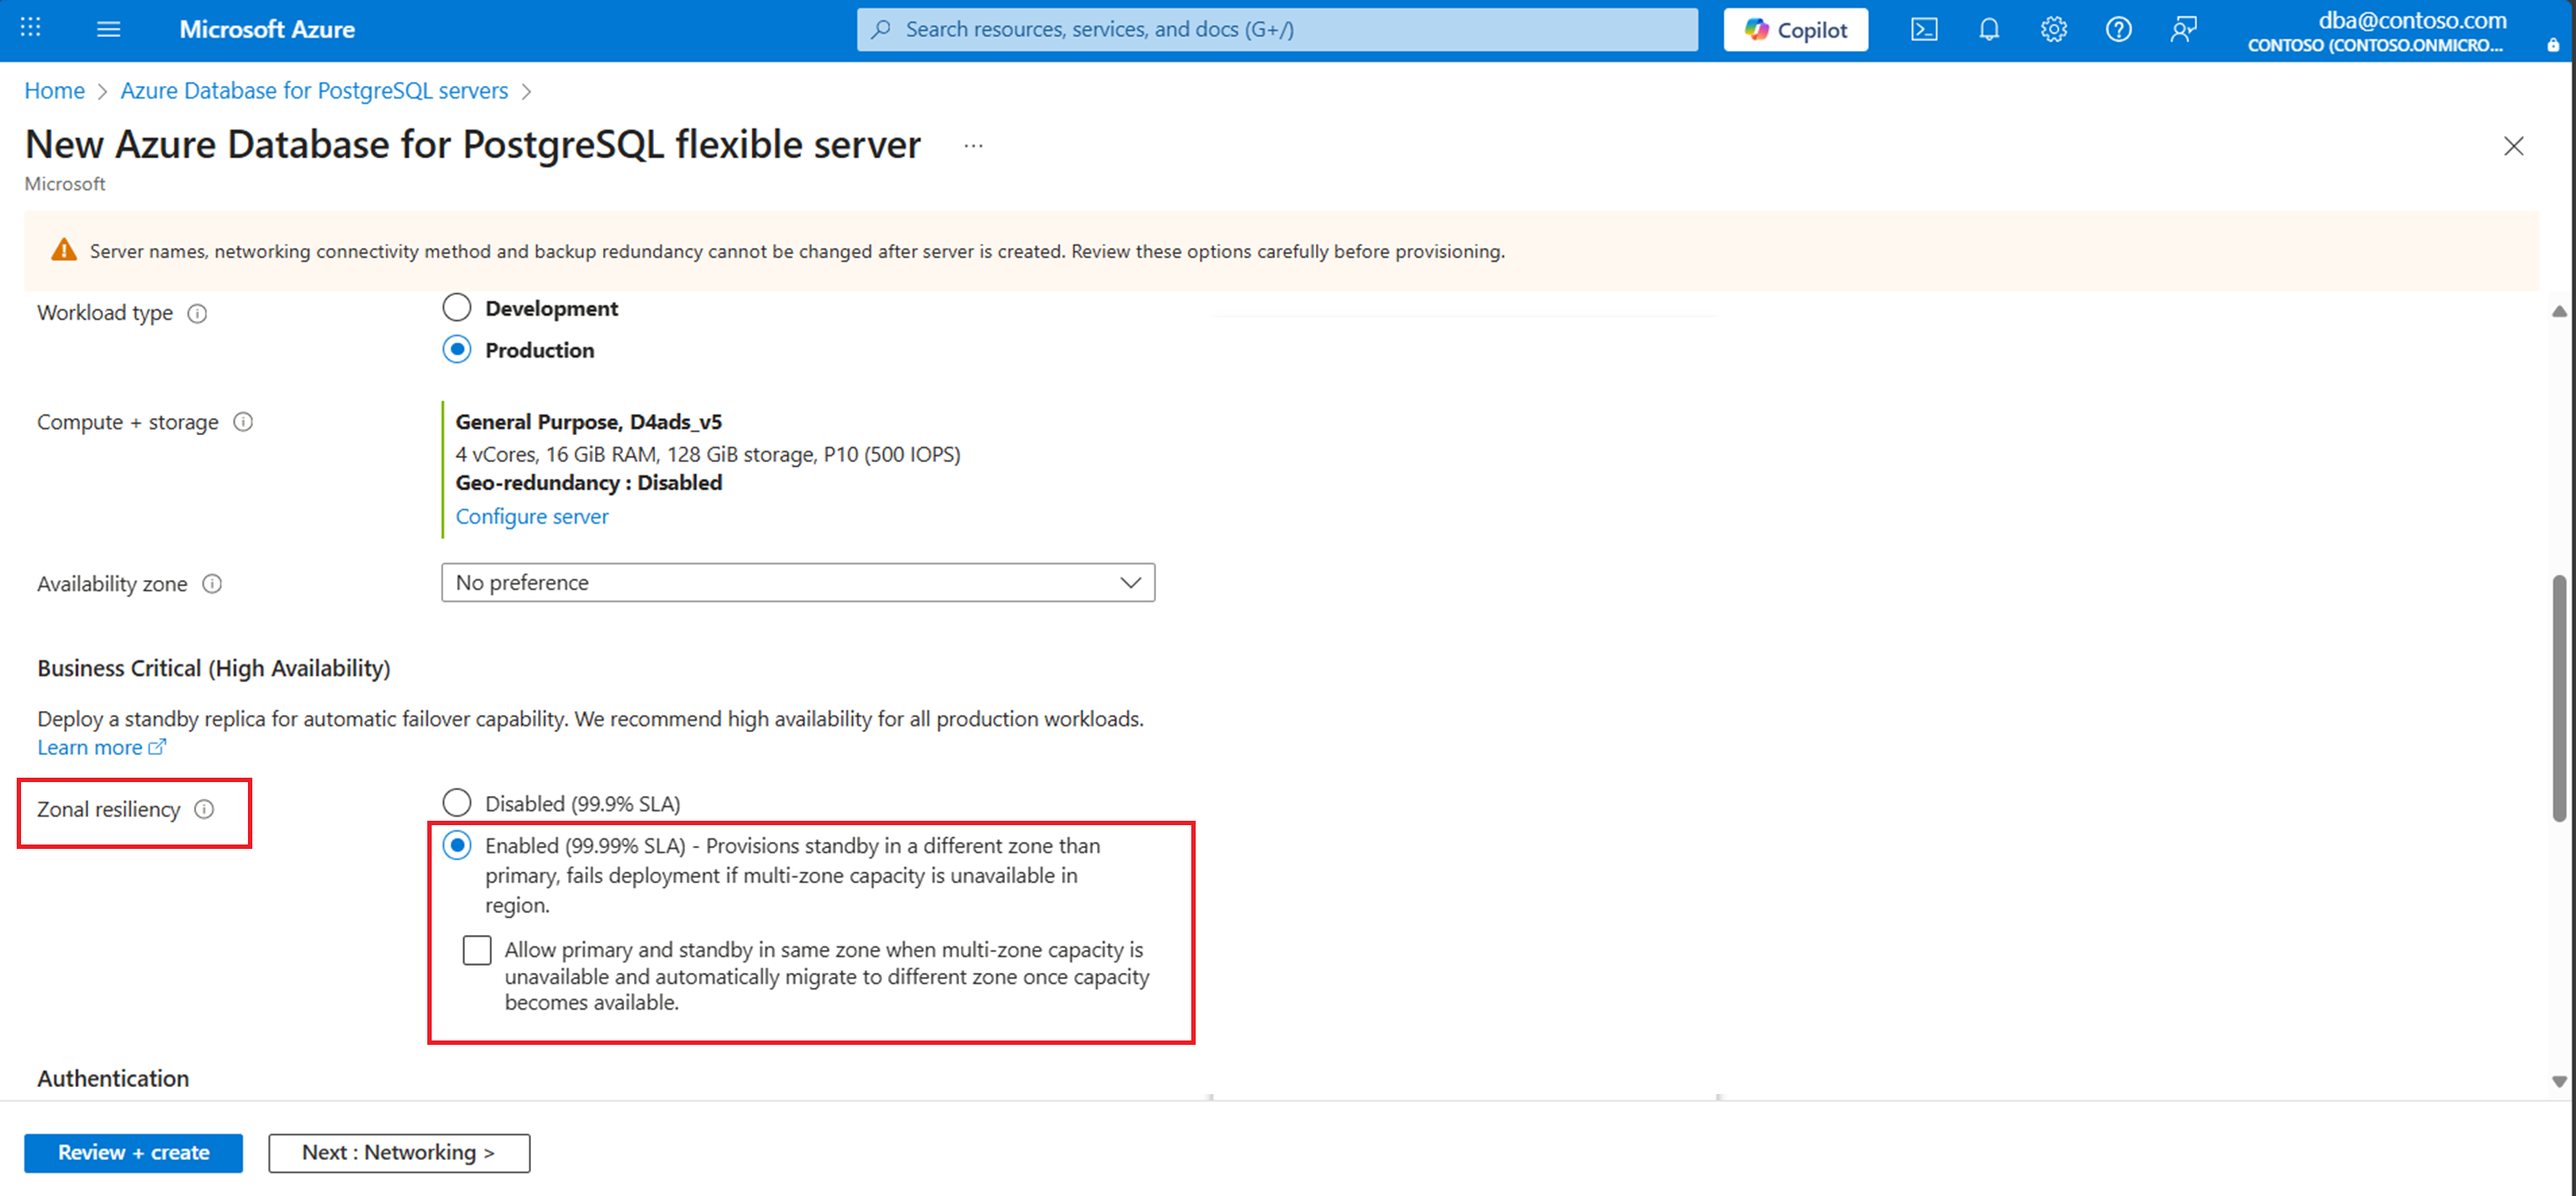
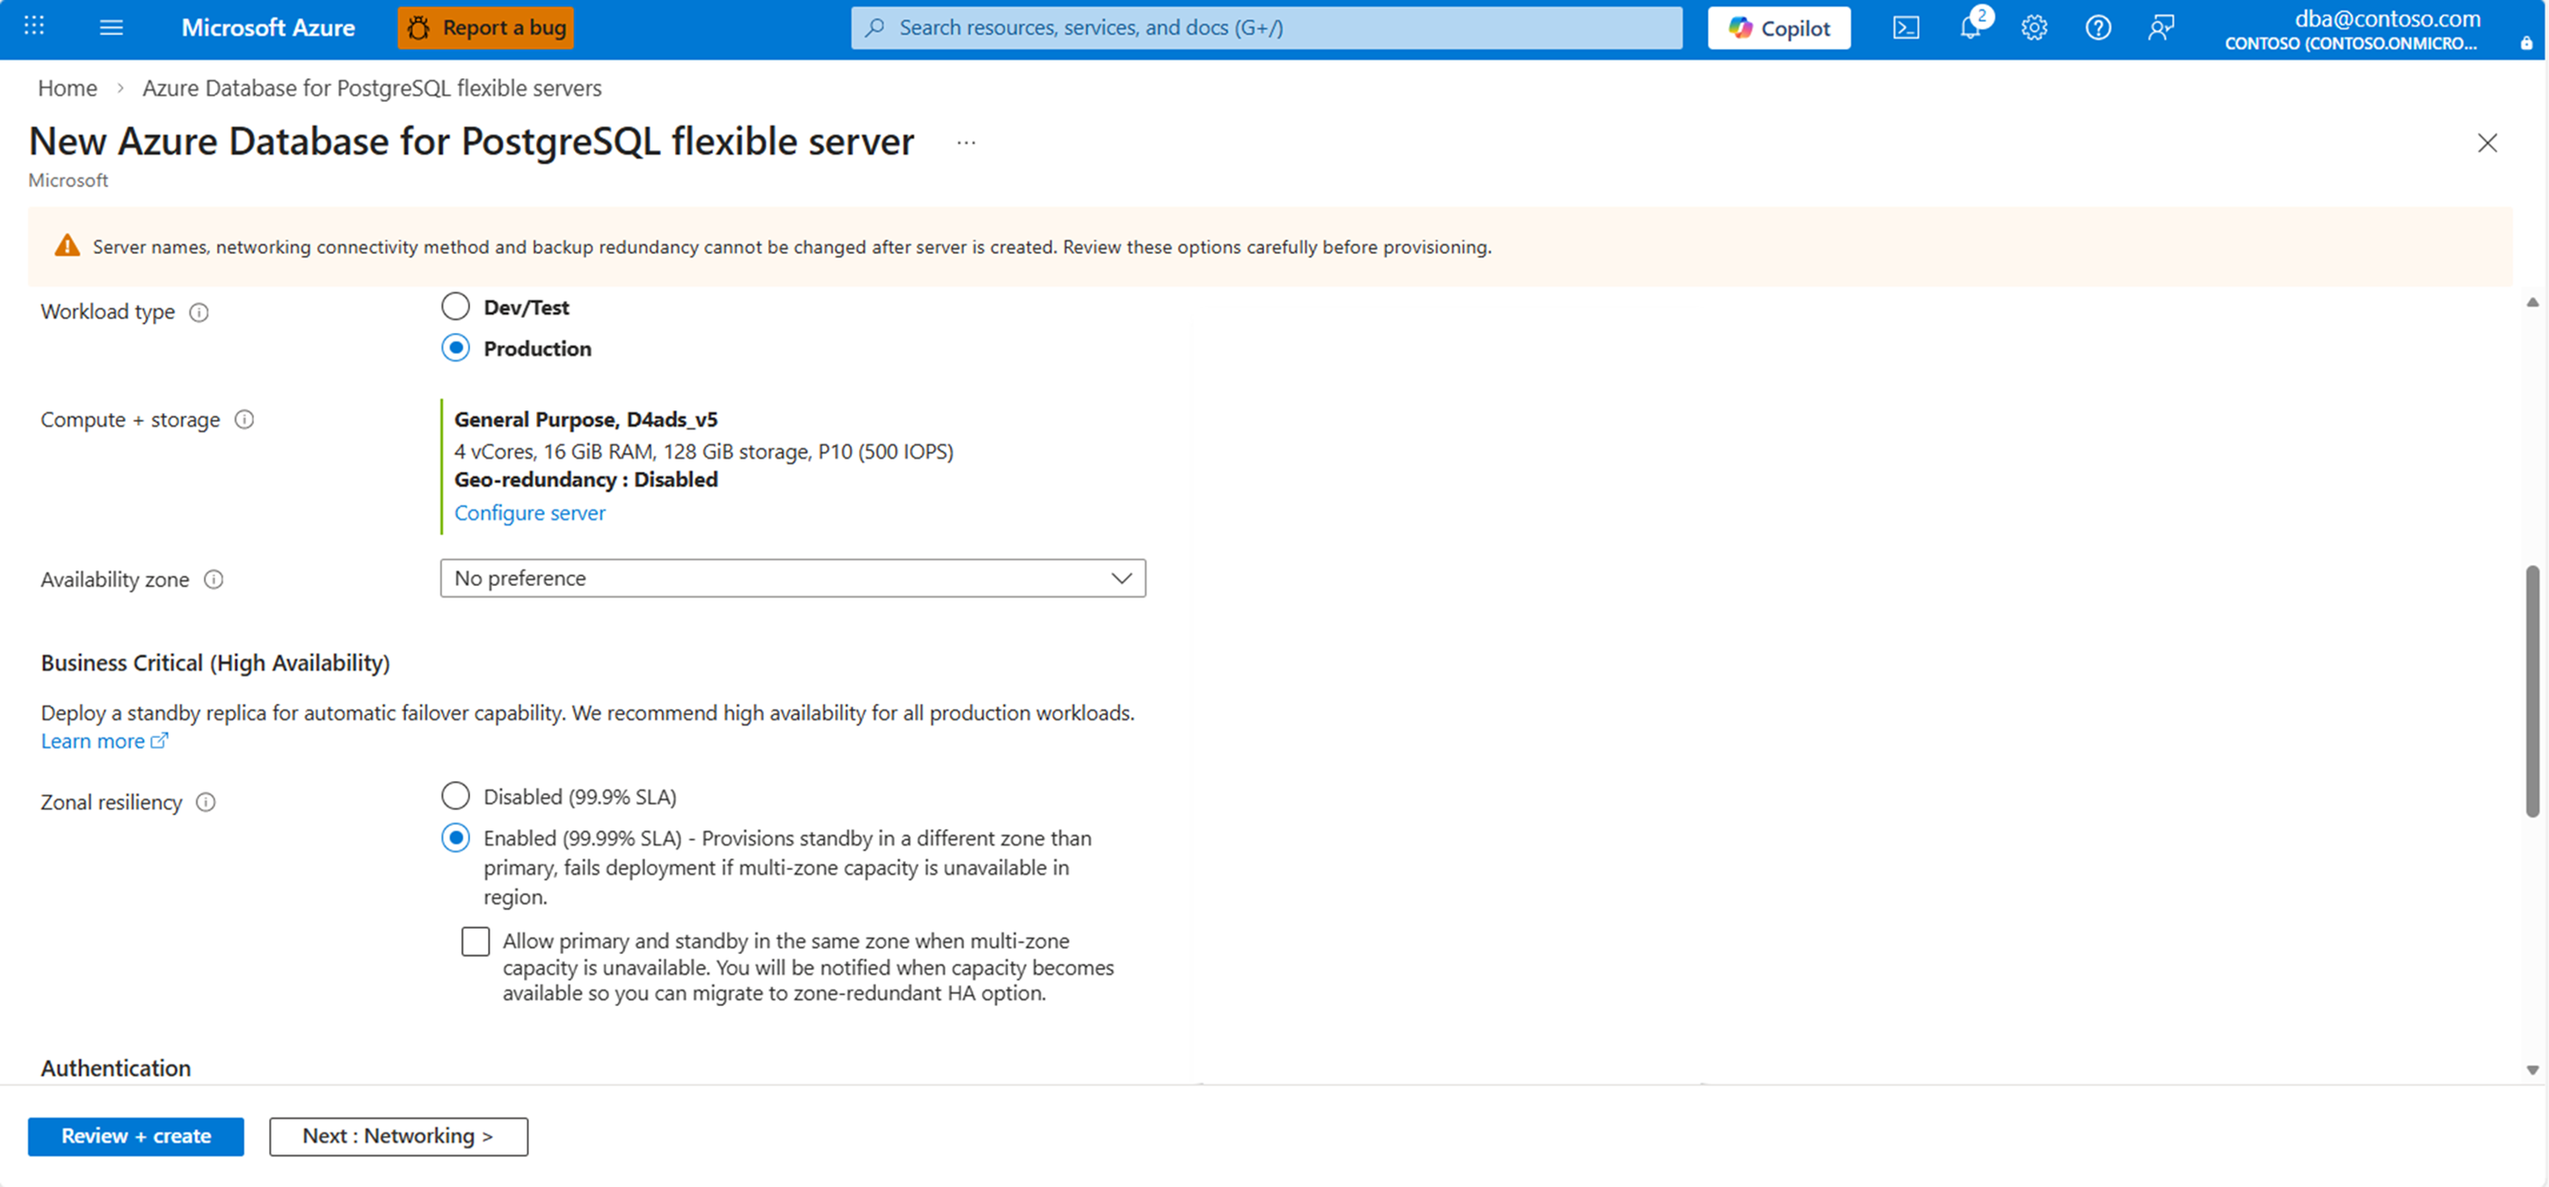
Adding image for UI changes for Zonal Resiliency

diff --git a/articles/reliability/reliability-azure-database-postgresql.md b/articles/reliability/reliability-azure-database-postgresql.md
@@ -4,7 +4,7 @@ description: Learn how to ensure reliability and availability in Azure Database 
 author: gaurikasar
 ms.author: gkasar
 ms.reviewer: maghan, gbowerman
-ms.date: 10/21/2025
+ms.date: 12/03/2025
 ms.service: azure-database-postgresql
 ms.topic: concept-article
 ms.custom:
@@ -50,9 +50,9 @@ You can configure high availability (HA) in two ways: zone-redundant HA, which p
 
 To simplify configuration and ensure zonal resiliency, the portal provides a Zonal Resiliency option with two radio buttons: Enabled and Disabled. Selecting Enabled attempts to create the standby server in a different availability zone (zone-redundant HA mode). If the region doesn't support zone-redundant HA, you can select the fallback checkbox (highlighted in the following image) to enable same-zone HA instead.
 
-:::image type="content" source="media/reliability-azure-database-postgresql/multi-availability-zones.png" alt-text="Screenshot of the zonal resiliency experience in the portal." lightbox="./media/reliability-azure-database-postgresql/same-zone-high-availability-architecture.png":::
+:::image type="content" source="media/reliability-azure-database-postgresql/multi-availability-zones.png" alt-text="Screenshot of the zonal resiliency experience in the portal." lightbox="./media/reliability-azure-database-postgresql/multi-availability-zones.png":::
 
-When you select the fallback checkbox, the system creates the standby server in the same zone and later triggers an automatic migration workflow during a maintenance window to move it to a different zone once capacity becomes available. If you don't select the checkbox and zonal capacity is unavailable, HA enablement fails. This design enforces zone-redundant HA as the default while providing a controlled fallback for same-zone HA, ensuring workloads eventually achieve full zone resiliency without manual intervention.
+When you select the fallback checkbox, the system creates the standby server in the same zone. If zonal capacity later becomes available, Azure will notify you so you can choose to migrate to a zone-redundant HA configuration using [PITR or read replicas](/azure/postgresql/flexible-server/how-to-configure-high-availability).  If you don't select the checkbox and zonal capacity is unavailable, HA enablement fails. This design enforces zone-redundant HA as the default while providing a controlled fallback for same-zone HA, ensuring workloads eventually achieve full zone resiliency without manual intervention.
 
 ### High availability features
 
